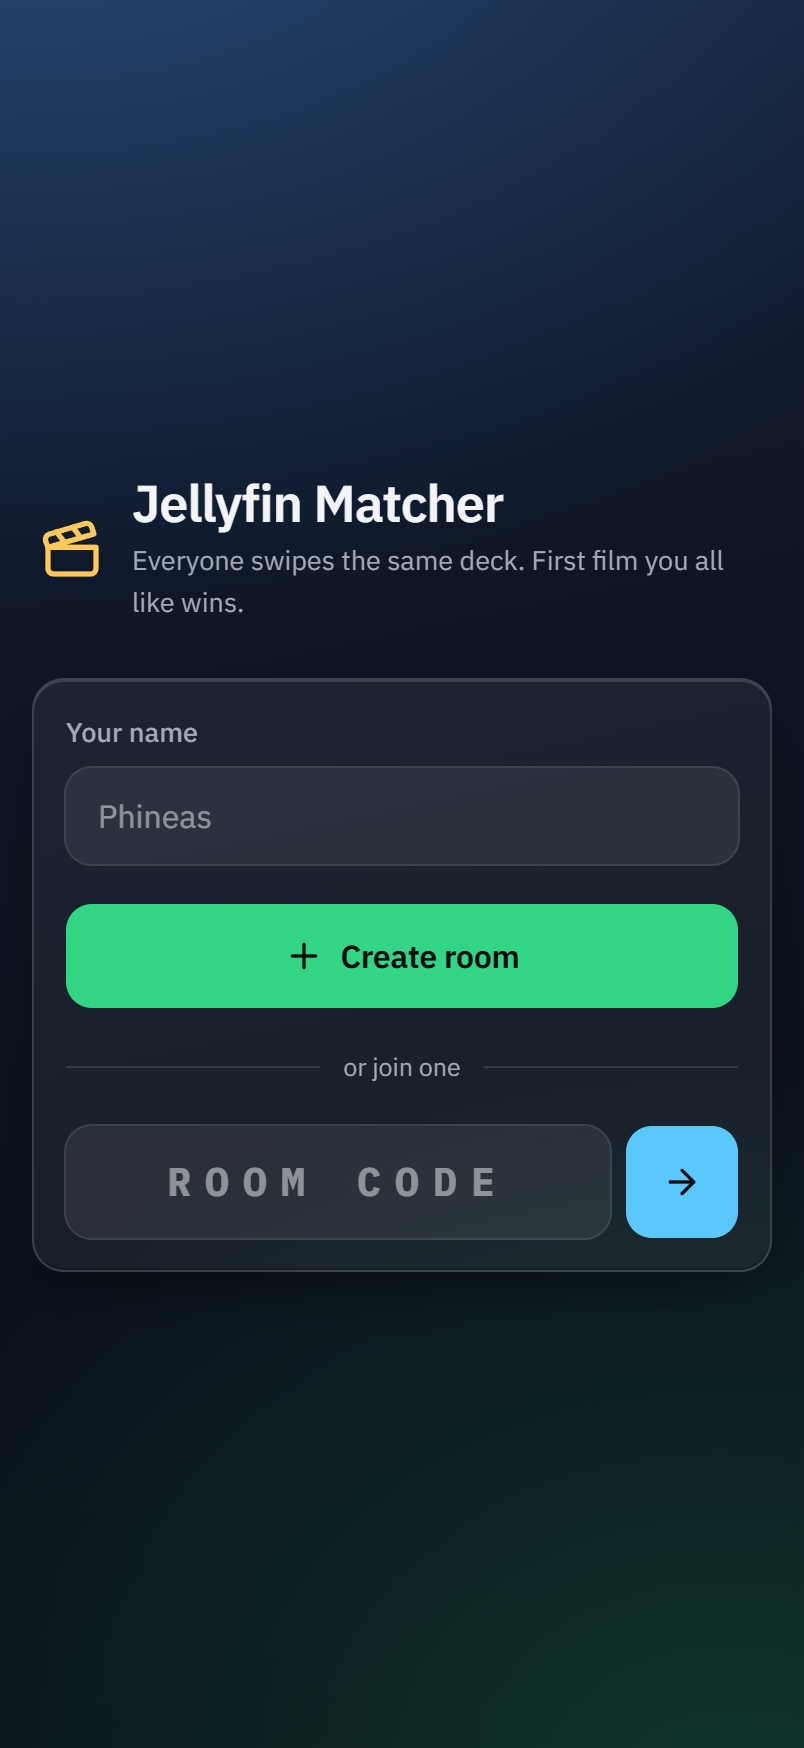
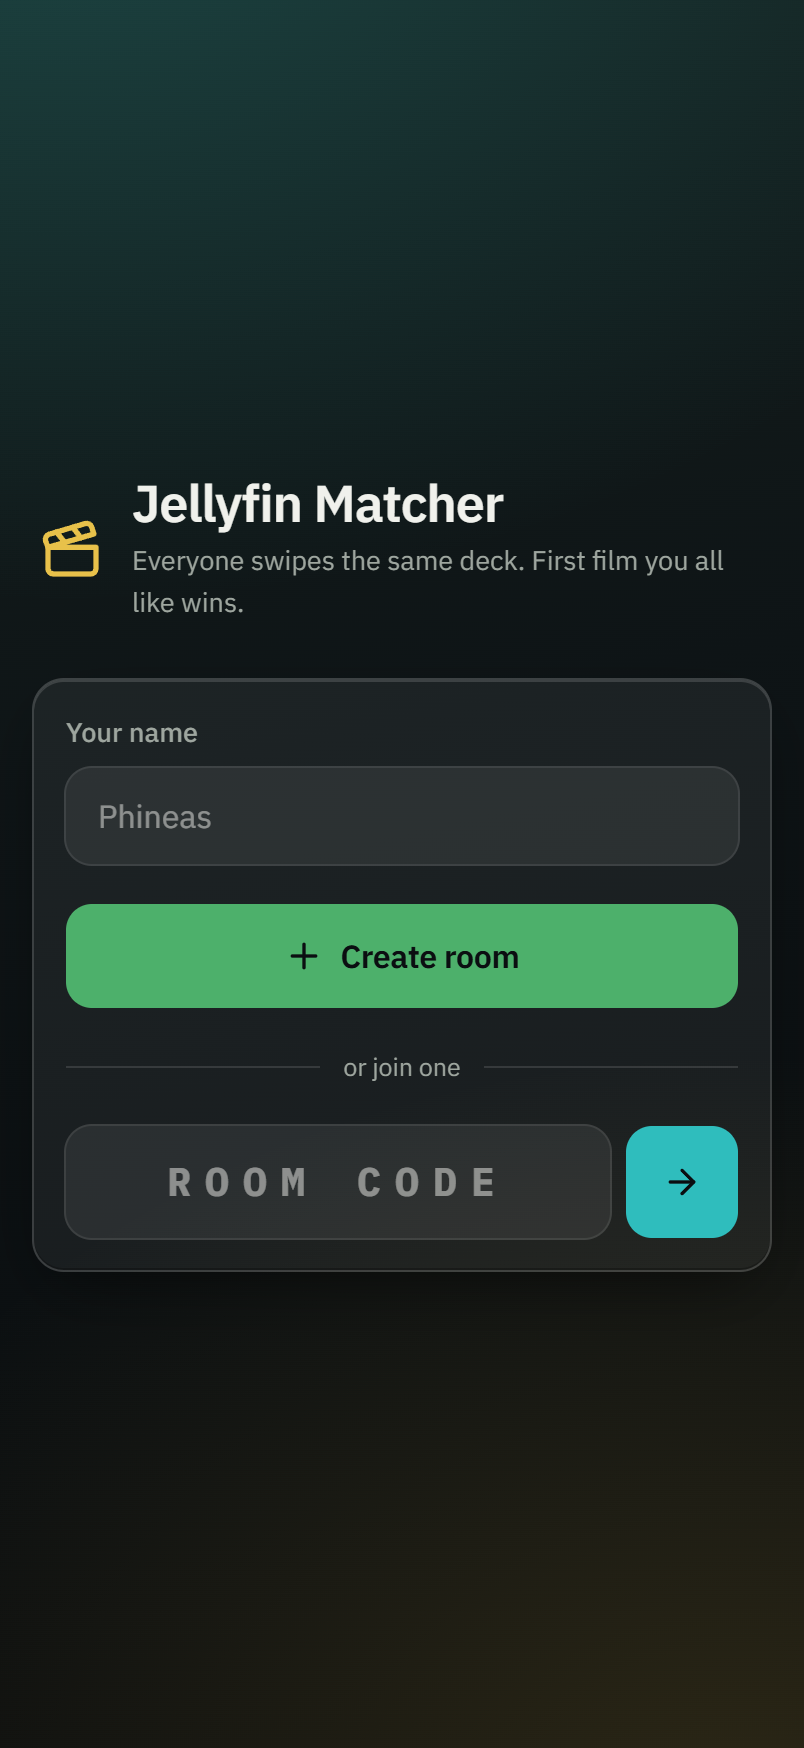
Give the app a palette it chose
The panel member who judges provenance said she could name the whole thing
from memory: `.pane` / `.pane-thin` / `.pane-thick` is Apple's material
vocabulary, `#5ac8fa` is systemBlue, and the icon and the confetti were four
unmodified Tailwind hexes. Her argument was not that those colours are ugly.
It is that a palette anyone can name is a palette nobody chose, and that if
the chrome was borrowed the honesty copy probably was too.

The palette now comes from colour film: the three subtractive dyes it builds
every image from -- yellow, magenta, cyan -- plus the green of the leader
that runs ahead of the picture. Yellow is the room's shared state, cyan is
mine alone, leader green goes, print red stops or costs. The cyan is a
green-leaning teal on purpose so it cannot be read as the blue it replaced.
Every value measured against the ground before it shipped: the divider is
3.44:1, the muted text 7.75:1, and nothing is below its floor.

`.pane` becomes `.gel` -- the translucent sheet a film crew clips in front of
a lamp, which is exactly what these do to the ambient behind them, and a word
from the subject rather than from a platform.

The icon was still wearing indigo-700 from a palette the app abandoned three
redesigns ago; it is redrawn as two cards coming into register inside a strip
of film, in the app's own dyes. The confetti was six Tailwind hexes, so the
one moment the app celebrated was the one moment it stopped looking like
[…]

diff --git a/app/globals.css b/app/globals.css
@@ -1,48 +1,60 @@
 @import 'tailwindcss';
 
 /*
-  Glass. iOS-style materials over an ambient ground.
+  THE PALETTE, AND WHERE IT COMES FROM.
 
-  The information architecture is unchanged from the direction the focus group
-  picked -- a label column, one row per control, one meaning per colour -- but
-  it is now built the way a grouped inset list is built: translucent cards
-  floating on a coloured ground, hairline edges, generous radii, system type.
+  Colour film builds every image from three subtractive dyes -- yellow, magenta
+  and cyan -- laid over a base, with the leader that runs ahead of the picture
+  printed in green. That is the whole system here, and it is a deliberate
+  reference rather than a default: the previous palette was Apple's systemBlue
+  sitting beside four unmodified Tailwind hexes, which is a house style anyone
+  who looks at software can name from memory, and naming it is the same as
+  saying nobody chose it.
 
-  Two different border tokens, on purpose:
+  One meaning per dye, held on every screen. Adding a second meaning to a
+  colour that already has one is how it stops signalling anything:
 
-    --color-border   a real structural divider. Stays above 3:1 against the
-                     ground because it separates one control from another, and
-                     that is information (R41).
-    --color-hairline the glass edge. Decorative: it describes the shape of a
-                     pane, and nothing depends on seeing it. Fill contrast, not
-                     this line, is what separates a card from the ground.
+    yellow dye  (--color-super)        the room's shared state
+    cyan dye    (--color-maybe)        mine alone
+    leader green(--color-accent)       go, safe, already on the server
+    print red   (--color-destructive)  stops, costs money, or is missing
 
-  One meaning per hue, still. Adding a second meaning to a colour that already
-  has one is how it stops signalling anything:
+  Cyan here is the dye, not the sky: #2fbdbd is a green-leaning teal precisely
+  so it cannot be mistaken for the system blue it replaced.
 
-    amber  (--color-super)       the room's shared state
-    blue   (--color-maybe)       mine alone
-    green  (--color-accent)      go, safe, already on the server
-    red    (--color-destructive) stops, costs money, or is missing
+  Two border tokens, because they are two different things. --color-border is a
+  divider between controls and clears 3:1 against the ground, since that is
+  information. --color-hairline is the edge of a translucent sheet; nothing
+  depends on seeing it (R41).
+
+  THE TYPE SCALE. One scale, in rem so it tracks the reader's OS setting (R60).
+  Sizes outside this list are a mistake, not a decision.
 */
 @theme {
-  --color-background: #0a0c12;
-  --color-foreground: #f2f4f8;
+  --color-background: #0b0e11;
+  --color-foreground: #f0f1ec;
   --color-primary: rgba(255, 255, 255, 0.1);
-  --color-on-primary: #0a0c12;
-  --color-secondary: #5ac8fa;
-  --color-accent: #32d583;
+  --color-on-primary: #0b0e11;
+  --color-secondary: #2fbdbd;
+  --color-accent: #4db06b;
   --color-muted: rgba(255, 255, 255, 0.06);
-  --color-muted-fg: #a2a9b8;
-  --color-border: #5c6272;
+  --color-muted-fg: #9ea69f;
+  --color-border: #5f6a63;
   --color-hairline: rgba(255, 255, 255, 0.14);
-  --color-destructive: #ff6b5e;
-  --color-super: #ffc95c;
-  --color-maybe: #5ac8fa;
+  --color-destructive: #e0563f;
+  --color-super: #e8c14a;
+  --color-maybe: #2fbdbd;
 
   --radius-sheet: 22px;
   --radius-card: 16px;
   --radius-control: 13px;
+
+  --text-caption: 0.75rem;
+  --text-label: 0.8125rem;
+  --text-body: 0.875rem;
+  --text-row: 1rem;
+  --text-title: 1.3125rem;
+  --text-display: 1.5rem;
 
   --font-sans: var(--font-plex), -apple-system, BlinkMacSystemFont, 'SF Pro Text',
     'Segoe UI', system-ui, sans-serif;
@@ -70,12 +82,17 @@ body::before {
     pane above it.
   */
   background:
-    radial-gradient(60rem 42rem at 8% -10%, rgba(74, 168, 255, 0.3), transparent 58%),
-    radial-gradient(52rem 40rem at 92% 104%, rgba(46, 214, 140, 0.22), transparent 60%),
-    linear-gradient(168deg, #16203a 0%, #0d1524 40%, #070a12 100%);
+    radial-gradient(60rem 42rem at 8% -10%, rgba(47, 189, 189, 0.24), transparent 58%),
+    radial-gradient(52rem 40rem at 92% 104%, rgba(232, 193, 74, 0.16), transparent 60%),
+    linear-gradient(168deg, #16211f 0%, #0e1416 42%, #080a0c 100%);
 }
 
 /*
+  THE MATERIAL. A gel is the translucent coloured sheet a film crew clips in
+  front of a lamp: it takes the light behind it and tints what passes through.
+  These do exactly that to the ambient ground, and the name is the app's own
+  rather than a platform's.
+
   One material, three weights, and they are the ONLY blurred surfaces in the
   app. backdrop-filter composites the whole layer behind an element on every
   frame, so it belongs on the handful of large, static chrome surfaces -- the
@@ -83,7 +100,7 @@ body::before {
   elements or on anything that moves. Putting it on four vote buttons and three
   drag badges that animate during a swipe wedged the compositor outright.
 */
-.pane {
+.gel {
   background: rgba(255, 255, 255, 0.06);
   backdrop-filter: blur(18px) saturate(165%);
   -webkit-backdrop-filter: blur(18px) saturate(165%);
@@ -98,17 +115,17 @@ body::before {
     inset 0 -1px 0 rgba(0, 0, 0, 0.24),
     0 12px 32px -12px rgba(0, 0, 0, 0.6);
 }
-.pane-thin {
+.gel-thin {
   background: rgba(18, 22, 32, 0.7);
   backdrop-filter: blur(20px) saturate(165%);
   -webkit-backdrop-filter: blur(20px) saturate(165%);
 }
-.pane-solid {
+.gel-solid {
   background: #131722;
   border: 1px solid var(--color-hairline);
   box-shadow: inset 0 1px 0 rgba(255, 255, 255, 0.09);
 }
-.pane-thick {
+.gel-thick {
   background: rgba(13, 16, 24, 0.78);
   backdrop-filter: blur(22px) saturate(165%);
   -webkit-backdrop-filter: blur(22px) saturate(165%);
@@ -122,16 +139,16 @@ body::before {
   so the app stays legible rather than pretty.
 */
 @supports not (backdrop-filter: blur(1px)) {
-  .pane,
-  .pane-thin {
+  .gel,
+  .gel-thin {
     background: #171a22;
   }
-  .pane-solid {
+  .gel-solid {
   background: #131722;
   border: 1px solid var(--color-hairline);
   box-shadow: inset 0 1px 0 rgba(255, 255, 255, 0.09);
 }
-.pane-thick {
+.gel-thick {
     background: #10131c;
   }
 }

diff --git a/src/ui/__tests__/pins.test.ts b/src/ui/__tests__/pins.test.ts
@@ -125,10 +125,10 @@ const LATESHOW: Pin[] = [
   { id: 'T02', why: 'Every listings control is a real button, never a div with onClick (R39)', find: 'export function RowButton' },
   { id: 'T03', why: 'The status bar stays a readout; nothing tappable in the cracked top corner (R40)', find: 'export function Bar' },
   { id: 'T04', why: 'Rows meet the minimum target that replaced the 26px chips, now 60px (R39)', find: "min-h-[60px]" },
-  { id: 'T05', why: 'The divider between two controls is information, so it clears 3:1. #5c6272 on #0a0c12 measures 3.2:1. The glass hairline is a separate, decorative token and is deliberately not held to this (R41)', find: '--color-border: #5c6272' },
-  { id: 'T06', why: 'One hue means the room, and only the room', find: '--color-super: #ffc95c' },
-  { id: 'T07', why: 'One hue means mine alone', find: '--color-maybe: #5ac8fa' },
-  { id: 'T08', why: 'One hue means it stops, costs, or is missing', find: '--color-destructive: #ff6b5e' },
+  { id: 'T05', why: 'The divider between two controls is information, so it clears 3:1. #5f6a63 on #0b0e11 measures 3.44:1. The glass hairline is a separate, decorative token and is deliberately not held to this (R41)', find: '--color-border: #5f6a63' },
+  { id: 'T06', why: 'The yellow film dye means the room and only the room (R64)', find: '--color-super: #e8c14a' },
+  { id: 'T07', why: 'The cyan dye means mine alone. A green-leaning teal on purpose, so it cannot be read as the system blue it replaced (R64)', find: '--color-maybe: #2fbdbd' },
+  { id: 'T08', why: 'Print red means it stops, costs, or is missing (R64)', find: '--color-destructive: #e0563f' },
   { id: 'T09', why: 'Focus is visible on a grid whose rows are the controls', find: 'outline: 3px solid var(--color-maybe)' },
   { id: 'T10', why: 'Fonts are self-hosted by next/font, so nothing is fetched off-LAN at runtime (R17)', find: "from 'next/font/google'" },
   { id: 'T11', why: 'A deck failure names which upstream failed; three causes used to produce one symptom and all three reached the host as "it is broken" (R54)', find: 'export function diagnoseDeckFailure' },
@@ -150,6 +150,8 @@ const LATESHOW: Pin[] = [
   { id: 'T37', why: 'The screen that first demands an opinion offers a way to decline it, rather than only the screen after', find: 'No preference — go with the room' },
   { id: 'T32', why: 'Each member is sent their own view of the room. Broadcasting the whole Room put everyone’s votes, deck position and ballots on every phone, while three screens promised otherwise (R61)', find: 'export function viewFor' },
   { id: 'T33', why: 'The broadcast is per-socket rather than one payload to the channel, which is what makes the redaction possible at all', find: "sock.emit('room:state', viewFor(room, data.userId))" },
+  { id: 'T38', why: 'The material is named from the subject, not from a platform: a gel is the translucent sheet a film crew clips in front of a lamp, which is what these do to the ambient (R64)', find: '.gel {' },
+  { id: 'T39', why: 'One type scale, in rem, so a size outside it is a mistake rather than a decision', find: '--text-row: 1rem;' },
   { id: 'T30', why: 'Type is set in rem so it grows with the OS text setting. Every size was a hardcoded pixel, under a comment claiming the vote row reflowed at 200% text -- the claim was true and the type it protected was not (R60)', find: 'font-size: 100%;' },
   { id: 'T31', why: 'The vote labels specifically are rem, since they are the ones the reflow comment names', find: "text-[0.8438rem] font-semibold" },
   { id: 'T23', why: 'Only connected members decide WHEN a room ends; a member who left mid-deck could otherwise block both a match and the deck exhausting, which is the exact stalemate the product exists to prevent (R56)', find: 'export function activeUserIds' },

diff --git a/src/ui/__tests__/docs.test.ts b/src/ui/__tests__/docs.test.ts
@@ -95,3 +95,64 @@ describe('the README shows the app', () => {
     expect(firstLine.toLowerCase()).toContain('swipe');
   });
 });
+
+/**
+ * The panel member who judges provenance said she could name the chrome from
+ * memory: Apple's material vocabulary, systemBlue, and four unmodified
+ * Tailwind hexes in the icon and the confetti. Her point was not that those
+ * colours are ugly -- it is that a palette anyone can name is a palette nobody
+ * chose. These assert the app is wearing its own.
+ */
+describe('the palette is the app s own', () => {
+  const css = readDoc('app/globals.css');
+  const icon = readDoc('public/icon.svg');
+  const confetti = readDoc('src/ui/components/Confetti.tsx');
+
+  /** Defaults from Tailwind and Apple that had been pasted in verbatim. */
+  const BORROWED = [
+    '#4338CA', // tailwind indigo-700, the old icon
+    '#1E1B4B', // indigo-950
+    '#22C55E', // green-500
+    '#FACC15', // yellow-400
+    '#38BDF8', // sky-400
+    '#EF4444', // red-500
+    '#F8FAFC', // slate-50
+    '#5AC8FA', // apple systemBlue
+    '#0F0F23', // the pre-redesign ground
+  ];
+
+  for (const surface of [
+    ['app/globals.css', css],
+    ['public/icon.svg', icon],
+    ['Confetti.tsx', confetti],
+  ] as const) {
+    it(`${surface[0]} carries no borrowed default`, () => {
+      const found = BORROWED.filter((hex) =>
+        surface[1].toLowerCase().includes(hex.toLowerCase()),
+      );
+      expect(found, `borrowed hex in ${surface[0]}: ${found.join(', ')}`).toEqual([]);
+    });
+  }
+
+  it('has no component quietly hardcoding a colour past the tokens', () => {
+    // The runtime slider held `accent-[#5ac8fa]` -- systemBlue, the exact hex
+    // the panel named -- through a whole palette change, because the token
+    // moved and the literal did not.
+    const files = ['src/ui/components/Lobby.tsx', 'src/ui/components/VoteRow.tsx',
+                   'src/ui/components/Listing.tsx', 'src/ui/components/SwipeCard.tsx'];
+    for (const f of files) {
+      const hits = [...readDoc(f).matchAll(/#[0-9a-fA-F]{6}/g)].map((m) => m[0]);
+      expect(hits, `hardcoded colour in ${f}: ${hits.join(', ')}`).toEqual([]);
+    }
+  });
+
+  it('says where the palette comes from, so the next person can argue with it', () => {
+    expect(css).toContain('subtractive dyes');
+  });
+
+  it('keeps the app icon on the same colours as the app', () => {
+    for (const dye of ['#e8c14a', '#2fbdbd', '#4db06b']) {
+      expect(icon.toLowerCase()).toContain(dye);
+    }
+  });
+});

diff --git a/src/ui/components/Listing.tsx b/src/ui/components/Listing.tsx
@@ -52,7 +52,7 @@ export function Bar({
           ? 'text-muted-fg'
           : 'text-super';
   return (
-    <div className="pane-thin sticky top-0 z-20 flex items-center justify-between gap-3 border-b border-[var(--color-hairline)] px-4 py-3">
+    <div className="gel-thin sticky top-0 z-20 flex items-center justify-between gap-3 border-b border-[var(--color-hairline)] px-4 py-3">
       <span className={`text-[0.9375rem] font-semibold tracking-[-0.01em] ${ink}`}>{left}</span>
       {right && (
         <span className="tabular shrink-0 text-[0.8125rem] font-medium text-muted-fg">{right}</span>
@@ -78,7 +78,7 @@ export function Group({
           {title}
         </h2>
       )}
-      <div className="pane overflow-hidden rounded-[var(--radius-card)]">{children}</div>
+      <div className="gel overflow-hidden rounded-[var(--radius-card)]">{children}</div>
     </section>
   );
 }
@@ -226,7 +226,7 @@ export function BigButton({
     tone === 'commit'
       ? 'bg-destructive text-on-primary'
       : tone === 'ghost'
-        ? 'pane text-foreground'
+        ? 'gel text-foreground'
         : 'bg-accent text-on-primary';
   return (
     <button
@@ -244,7 +244,7 @@ export function BigButton({
 /** The floating action shelf a screen's primary control sits in. */
 export function Dock({ children }: { children: React.ReactNode }) {
   return (
-    <div className="pane-thick sticky bottom-0 z-20 flex flex-col gap-2 border-t border-[var(--color-hairline)] px-3 py-3">
+    <div className="gel-thick sticky bottom-0 z-20 flex flex-col gap-2 border-t border-[var(--color-hairline)] px-3 py-3">
       {children}
     </div>
   );

diff --git a/src/ui/components/SwipeCard.tsx b/src/ui/components/SwipeCard.tsx
@@ -76,11 +76,11 @@ export function SwipeCard({ card, onVote, active, onOpenDetails }: SwipeCardProp
       aria-hidden={!active}
     >
       {/*
-        pane-thick, not pane: the cards behind the top one are still in the DOM
+        gel-thick, not pane: the cards behind the top one are still in the DOM
         and a 7%-white panel let their titles read straight through this one.
         The stack has to look like a stack, not a double exposure.
       */}
-      <article className="pane-solid flex h-full flex-col overflow-hidden rounded-[var(--radius-sheet)] shadow-2xl shadow-black/60">
+      <article className="gel-solid flex h-full flex-col overflow-hidden rounded-[var(--radius-sheet)] shadow-2xl shadow-black/60">
         <div className="relative min-h-0 flex-1 bg-white/[0.04]">
           {card.posterUrl ? (
             // eslint-disable-next-line @next/next/no-img-element

diff --git a/src/ui/components/MovieDetails.tsx b/src/ui/components/MovieDetails.tsx
@@ -84,7 +84,7 @@ export function MovieDetails({ card, onClose }: { card: MovieCandidate; onClose:
         initial={reducedMotion ? { opacity: 0 } : { y: '100%' }}
         animate={reducedMotion ? { opacity: 1 } : { y: 0 }}
         transition={{ type: 'spring', stiffness: 380, damping: 38 }}
-        className="pane-thick relative max-h-[85dvh] w-full max-w-md overflow-y-auto rounded-t-[var(--radius-sheet)] p-4 pb-[max(1.25rem,env(safe-area-inset-bottom))] outline-none"
+        className="gel-thick relative max-h-[85dvh] w-full max-w-md overflow-y-auto rounded-t-[var(--radius-sheet)] p-4 pb-[max(1.25rem,env(safe-area-inset-bottom))] outline-none"
       >
         <div className="mb-3 flex items-start justify-between gap-3">
           <div>

diff --git a/src/ui/components/Confetti.tsx b/src/ui/components/Confetti.tsx
@@ -3,7 +3,12 @@
 import { motion, useReducedMotion } from 'framer-motion';
 import { useMemo } from 'react';
 
-const COLORS = ['#22C55E', '#4338CA', '#FACC15', '#38BDF8', '#EF4444', '#F8FAFC'];
+/*
+  The app's own dyes, not a generic party palette. These were six unmodified
+  Tailwind hexes left over from the pre-redesign look, so the one moment the
+  app celebrates was the one moment it stopped looking like itself.
+*/
+const COLORS = ['#e8c14a', '#2fbdbd', '#4db06b', '#e0563f', '#f0f1ec'];
 const PIECES = 50;
 
 /** One-shot celebratory confetti. Skipped entirely under reduced motion. */

diff --git a/src/ui/components/WinnerScreen.tsx b/src/ui/components/WinnerScreen.tsx
@@ -52,7 +52,7 @@ export function WinnerScreen({
       />
 
       <div className="scroll-body flex min-h-0 flex-1 flex-col">
-        <div className="pane mx-3 mt-3 flex items-start gap-3.5 rounded-[var(--radius-card)] p-3.5">
+        <div className="gel mx-3 mt-3 flex items-start gap-3.5 rounded-[var(--radius-card)] p-3.5">
           {winner.posterUrl ? (
             // eslint-disable-next-line @next/next/no-img-element
             <img

diff --git a/src/ui/components/Lobby.tsx b/src/ui/components/Lobby.tsx
@@ -138,7 +138,7 @@ export function Lobby({ roomHook }: { roomHook: RoomHook }) {
                 onChange={(e) =>
                   void updateSettings({ maxRuntime: RUNTIME_STOPS[Number(e.target.value)] })
                 }
-                className="accent-[#5ac8fa]"
+                className="accent-maybe"
               />
             </div>
           </div>

diff --git a/app/manifest.ts b/app/manifest.ts
@@ -8,8 +8,8 @@ export default function manifest(): MetadataRoute.Manifest {
     start_url: '/',
     display: 'standalone',
     orientation: 'portrait',
-    background_color: '#0F0F23',
-    theme_color: '#0F0F23',
+    background_color: '#0B0E11',
+    theme_color: '#0B0E11',
     icons: [
       {
         src: '/icon.svg',

diff --git a/app/layout.tsx b/app/layout.tsx
@@ -27,7 +27,7 @@ export const metadata: Metadata = {
 export const viewport: Viewport = {
   width: 'device-width',
   initialScale: 1,
-  themeColor: '#0A0C12',
+  themeColor: '#0B0E11',
 };
 
 export default function RootLayout({ children }: { children: React.ReactNode }) {

diff --git a/README.md b/README.md
@@ -188,11 +188,11 @@ Auth is `?apikey=` in the query string. `POST /tmdb/movie/` with `{"ids": [...]}
 
 ## Testing
 
-`npm run gate` is the one command: typecheck, the suite, the pinned claims, and a production build, each numbered and counted, non-zero if anything drops. Currently 233 cases across 16 files.
+`npm run gate` is the one command: typecheck, the suite, the pinned claims, and a production build, each numbered and counted, non-zero if anything drops. Currently 242 cases across 16 files.
 
 Most of those are unit tests over the scoring math, knockout state machine, deck ordering, match rules, and the API clients (mocked fetch, injectable clocks). The realtime path got verified with an actual browser plus the scripted partner: full lobby to confetti flow against a real Jellyfin library.
 
-Another 104 are *pinned claims* — accessibility hooks, the copy that tells you an action will actually download something, empty states that explain themselves, promises made in this README. None of them would break a normal test if they were deleted, which is exactly why they're pinned. `npm run inventory` finds new candidates; `npm run prod:read` says whether the deployed server is up, configured, and running this commit. The reasoning is in [OPERATING.md](OPERATING.md).
+Another 106 are *pinned claims* — accessibility hooks, the copy that tells you an action will actually download something, empty states that explain themselves, promises made in this README. None of them would break a normal test if they were deleted, which is exactly why they're pinned. `npm run inventory` finds new candidates; `npm run prod:read` says whether the deployed server is up, configured, and running this commit. The reasoning is in [OPERATING.md](OPERATING.md).
 
 ## License
 
